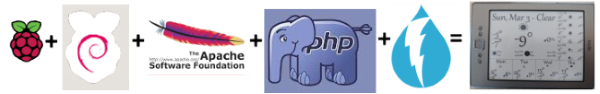
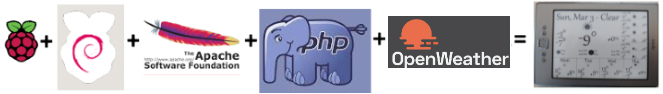
Update README for OpenWeather switch

diff --git a/README.md b/README.md
@@ -1,7 +1,7 @@
 # KindleDisplay
 Kindle eink display of weather conditions. Inspired by: [A Kindle Weather Display, the Easy Way](https://www.galacticstudios.org/kindle-weather-display/)
 
-![Powered By](PoweredBy.png "Powered by: Raspberry Pi + Raspbian + Apache + php + Dark Sky = Kindle Display")
+![Powered By](PoweredBy.png "Powered by: Raspberry Pi + Raspbian + Apache + php + OpenWeather = Kindle Display")
 
 ServerSide configuration:
 * Raspberry Pi
@@ -9,7 +9,7 @@ ServerSide configuration:
     * Apache
     * php with the GD graphics drawing library
     * [Imagick](http://php.net/manual/en/book.imagick.php) Sore spot in this project. This component is a bit tricky to get running correctly. When developing only the GD library is needed for rendering image to a browser.
-    * Weather data [Powered by Dark Sky](https://darksky.net/poweredby/)
+    * Weather data [Powered by OpenWeather](https://openweathermap.org/api/one-call-3)
 
 ClientSide configuration:
 * [Kindle 4 Non-Touch (K4NT)](https://en.wikipedia.org/wiki/Amazon_Kindle#Fourth_generation) Serial # B00E (or a browser when developing)
